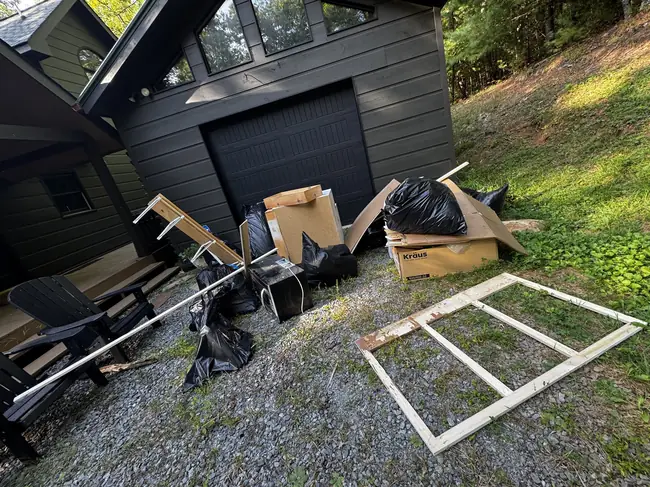
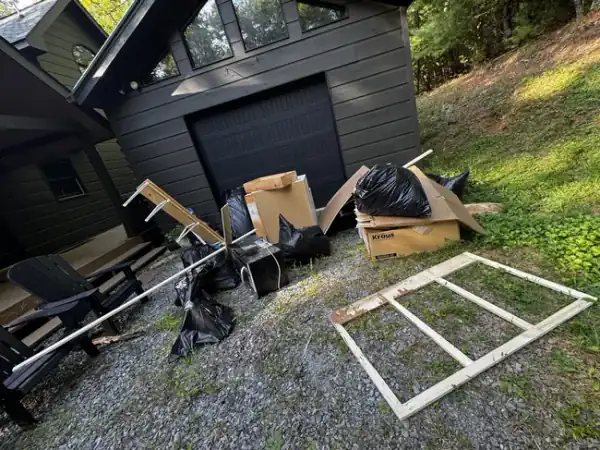
Junk Brawlers: compress before/after slider photos — 78→43 KB each
Resize from 650px to 600px at q55. Slider renders at 340px max on
mobile; 600px covers 1.75x retina. Same approach as Integrity Hauling
(400px indoor shots at 13-40 KB). Total image savings: ~70 KB.

Changed region(s): [[0.99, 0.5911, 1.0, 0.6222]]

diff --git a/index.html b/index.html
@@ -672,10 +672,10 @@ h1,h2,h3,h4{font-family:var(--font-heading);font-weight:800}
       <div class="results-accent"></div>
       <div class="ba-slider" role="img" aria-label="Drag to compare before and after junk removal">
         <div class="ba-after">
-          <img src="images/gbp-photo-02.webp" alt="After junk removal by Junk Brawlers, North Georgia" loading="lazy" width="800" height="600">
+          <img src="images/gbp-photo-02.webp" alt="After junk removal by Junk Brawlers, North Georgia" loading="lazy" width="600" height="450">
         </div>
         <div class="ba-before">
-          <img src="images/gbp-photo-01.webp" alt="Before junk removal — cluttered space" loading="lazy" width="800" height="600">
+          <img src="images/gbp-photo-01.webp" alt="Before junk removal — cluttered space" loading="lazy" width="600" height="450">
         </div>
         <div class="ba-handle">
           <div class="ba-handle-btn" aria-hidden="true">
